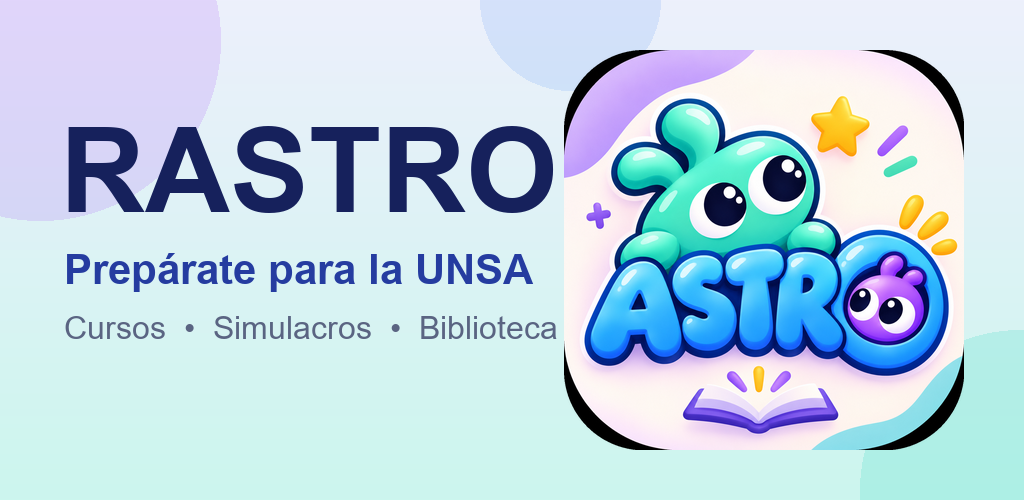
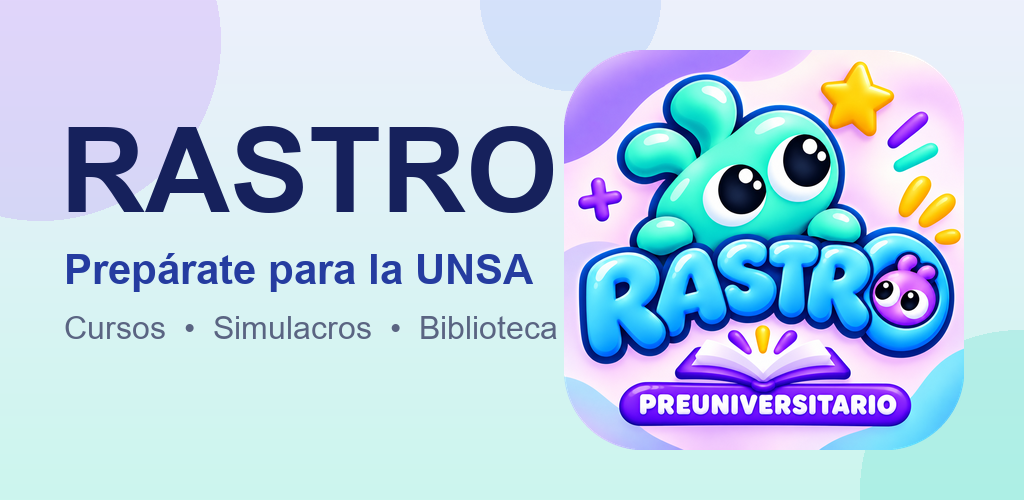
RASTRO v1.0.1: icono unico, accesos, pomodoro, racha, invitados

Changed region(s): [[0.5312, 0.09, 0.9688, 0.9]]

diff --git a/src/components/LiquidNavbar.jsx b/src/components/LiquidNavbar.jsx
@@ -1910,7 +1910,7 @@ export const LiquidNavbar = () => {
               }}
             >
               <div style={{ width: '56px', height: '56px', borderRadius: '16px', background: 'var(--card-bg)', border: '1.5px solid var(--card-border)', display: 'flex', alignItems: 'center', justifyContent: 'center', margin: '0 auto', overflow: 'hidden' }}>
-                <img src="./assets/rastro-pwa-icon.png" alt="RASTRO" style={{ width: '100%', height: '100%', objectFit: 'contain', borderRadius: '12px' }} />
+                <img src="./applogo.png" alt="RASTRO" style={{ width: '100%', height: '100%', objectFit: 'contain', borderRadius: '12px' }} />
               </div>
               <h3 style={{ margin: 0, fontSize: '1.15rem', fontWeight: 900, color: 'var(--text-main)' }}>Instalar RASTRO</h3>
               <p style={{ margin: 0, fontSize: '0.84rem', color: 'var(--text-secondary)', lineHeight: 1.45 }}>Accede más rápido, funciona sin conexión y recibe novedades. Instala RASTRO como app en tu dispositivo.</p>

diff --git a/src/lib/notifications.js b/src/lib/notifications.js
@@ -234,7 +234,7 @@ export function getAssetUrl(relativePath) {
 export async function triggerSystemNotification({
   title = 'Rastro',
   body = 'Tienes una nueva actualización',
-  icon = 'assets/rastro-pwa-icon-192.png',
+  icon = 'applogo.png',
   data = {},
   tag = null
 }) {
@@ -266,8 +266,8 @@ export async function triggerSystemNotification({
   const cleanBody = (typeof body === 'string' && body.trim()) ? body.trim() : 'Tienes una nueva actualización';
   const cleanTitle = (typeof title === 'string' && title.trim()) ? title.trim() : 'RASTRO';
   const finalTag = tag || (data?.notifId ? `rastro-notif-${data.notifId}` : `rastro-alert-${Date.now()}`);
-  const finalIcon = getAssetUrl(icon || 'assets/rastro-pwa-icon-192.png');
-  const finalBadge = getAssetUrl('assets/rastro-pwa-icon-192.png');
+  const finalIcon = getAssetUrl(icon || 'applogo.png');
+  const finalBadge = getAssetUrl('applogo.png');
 
   const notifOptions = {
     body: cleanBody,

diff --git a/src/components/DeviceNotificationsListener.jsx b/src/components/DeviceNotificationsListener.jsx
@@ -195,7 +195,7 @@ export const DeviceNotificationsListener = () => {
       triggerSystemNotification({
         title,
         body,
-        icon: data.senderPhoto || '/assets/rastro-pwa-icon-192.png',
+        icon: data.senderPhoto || '/applogo.png',
         data: { url: targetUrl, notifId: id },
         tag: `rastro-notif-${id}`
       });
@@ -311,7 +311,7 @@ export const DeviceNotificationsListener = () => {
         triggerSystemNotification({
           title,
           body,
-          icon: 'assets/rastro-pwa-icon-192.png',
+          icon: 'applogo.png',
           data: { url: '/aprender' },
           tag: `rastro-streak-reminder-${todayStr}`
         });
